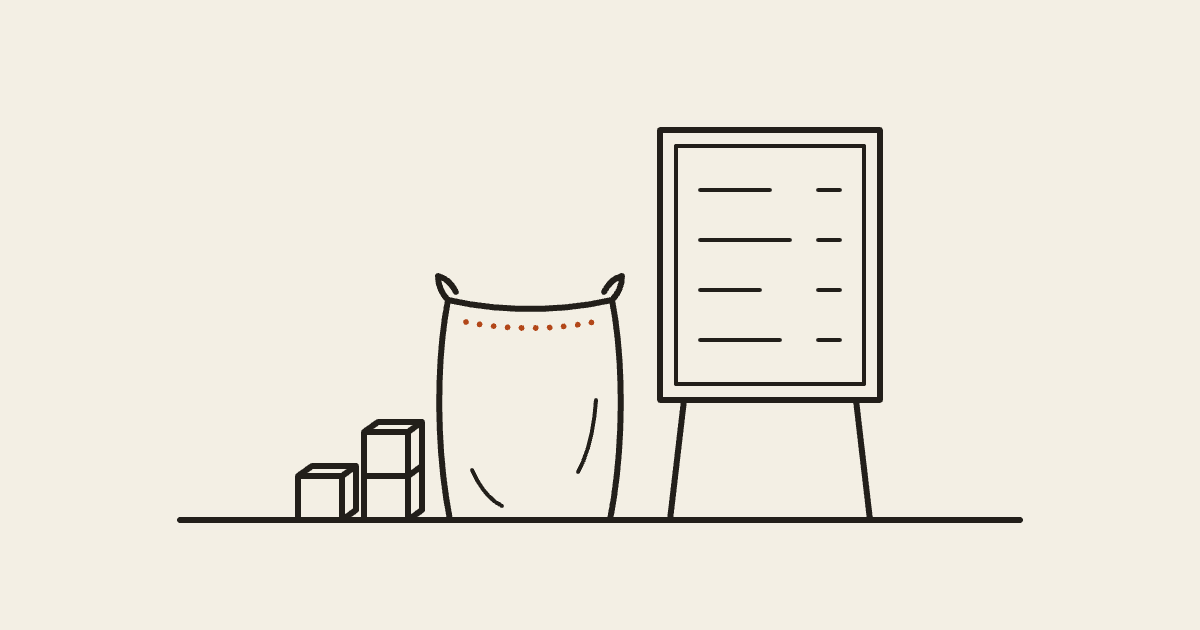
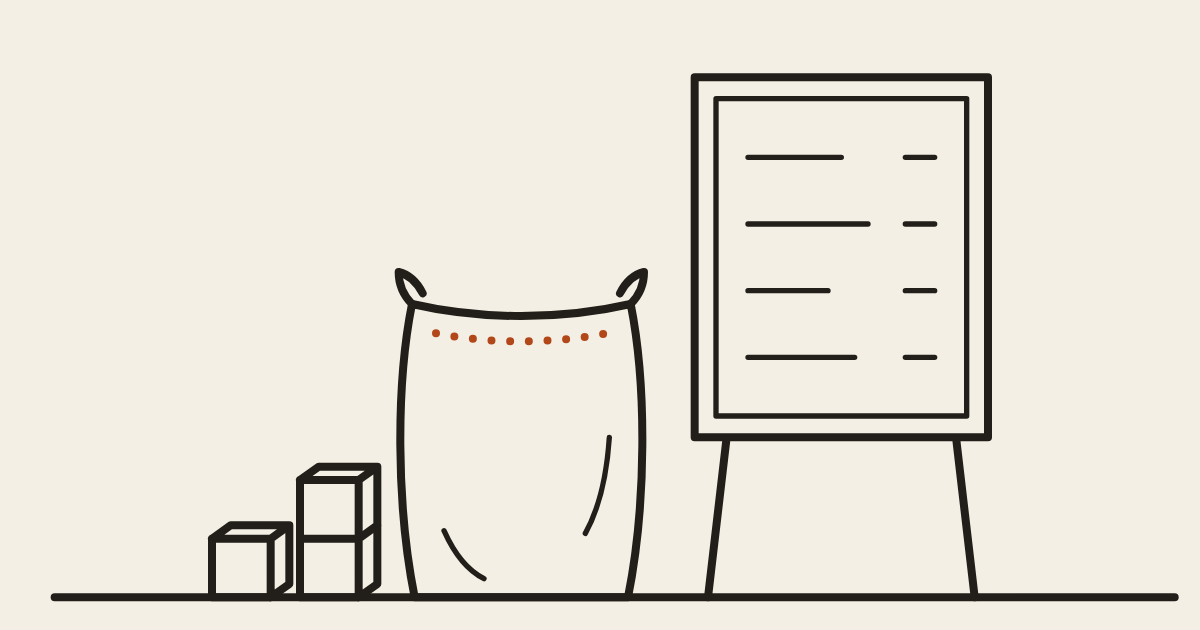
fix(blog): zoom line art to fill the hero frame
Each SVG now uses a 900 x 472.5 viewBox window around its ink (1.33x),
same scale across the set so strokes stay one family. The CSS crop on the
hero and card images is removed because the viewBox does that job now.
og PNGs re-rendered from the new art.

Changed region(s): [[0.0308, 0.0905, 0.9867, 0.9651]]

diff --git a/blog/blog.css b/blog/blog.css
@@ -383,16 +383,14 @@ main.wrap { padding-top: 56px; padding-bottom: 80px }
   overflow: hidden;
 }
 .b-hero-art img {
-  display: block; width: 100%; height: auto;
-  /* Every drawing sits on a table line near y 520 of 630 with its tallest
-     element near y 120, so the top fifth of the canvas is empty. Crop to the
-     band that holds the ink instead of shipping a strip of blank cream. */
-  aspect-ratio: 1200 / 470; object-fit: cover; object-position: 50% 62%;
+  /* No crop here: each SVG's viewBox is already a 900 x 472.5 window around
+     its ink, so the drawing fills the frame at full aspect. */
+  display: block; width: 100%; height: auto; aspect-ratio: 1200 / 630;
 }
 
 .b-card-art {
   display: block; width: 100%; height: auto; margin: -6px 0 14px;
-  aspect-ratio: 1200 / 440; object-fit: cover; object-position: 50% 62%;
+  aspect-ratio: 1200 / 630;
 }
 @media (min-width: 640px) {
   .b-post-card {
